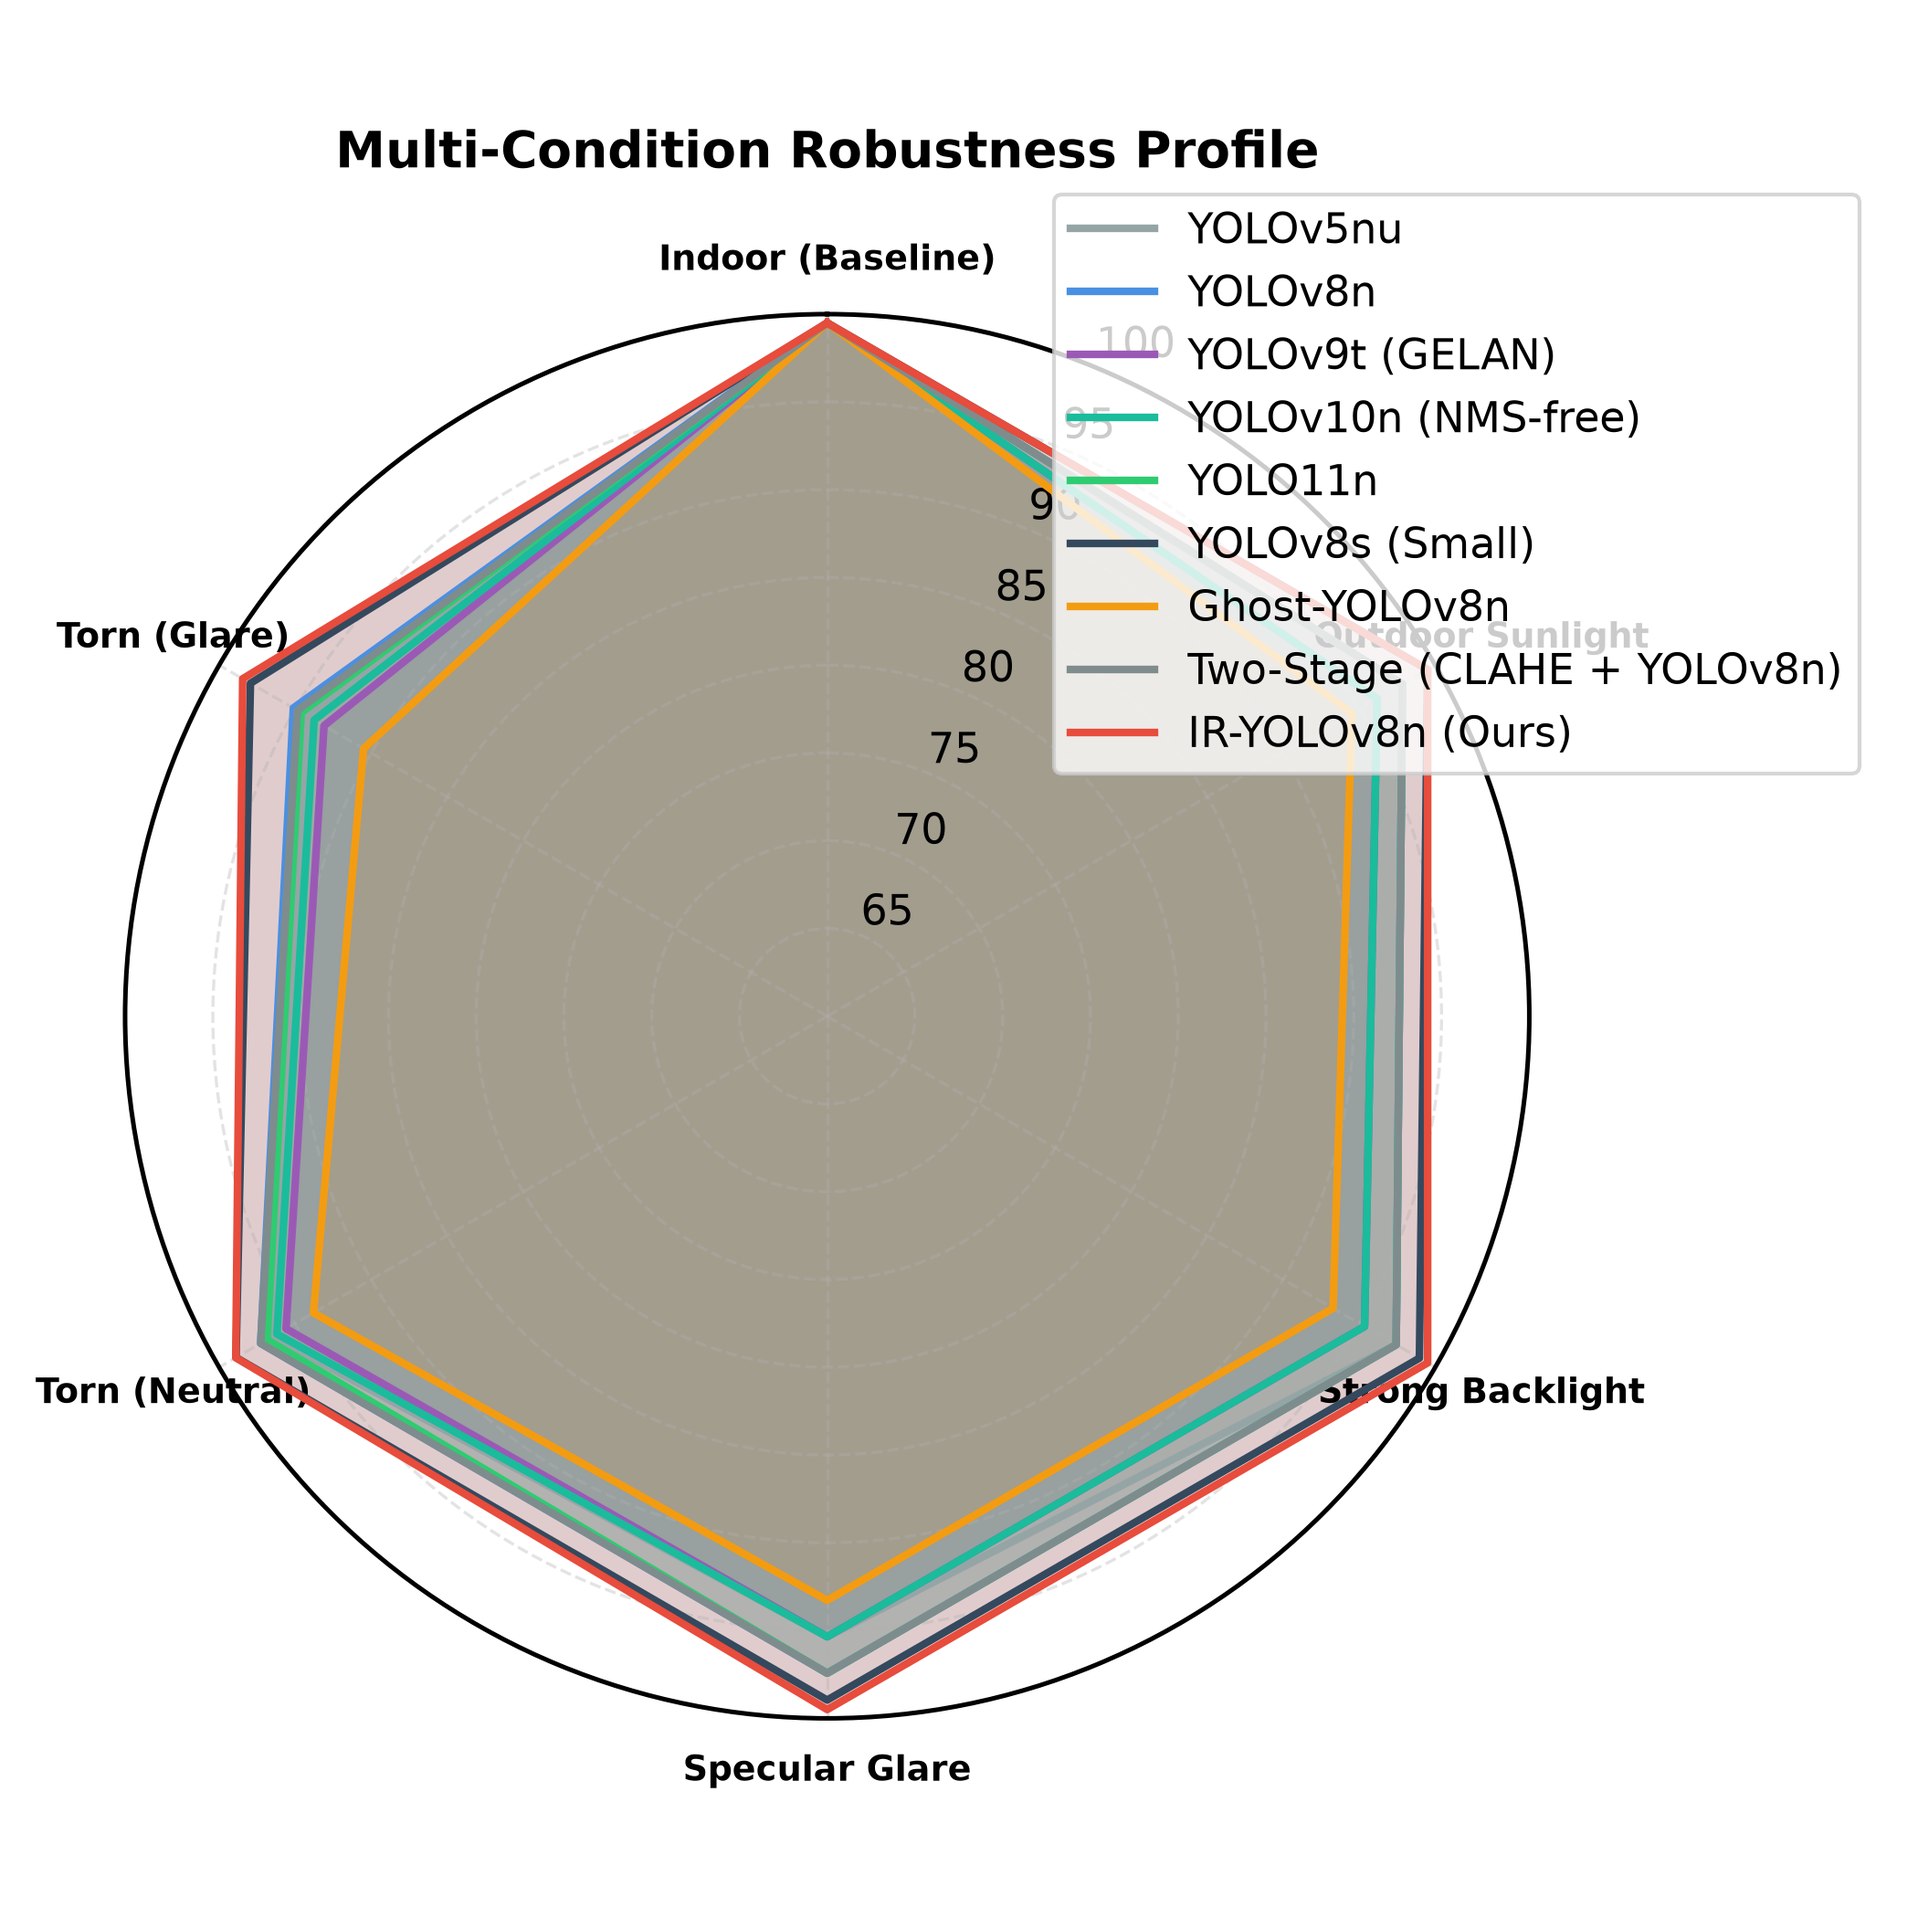
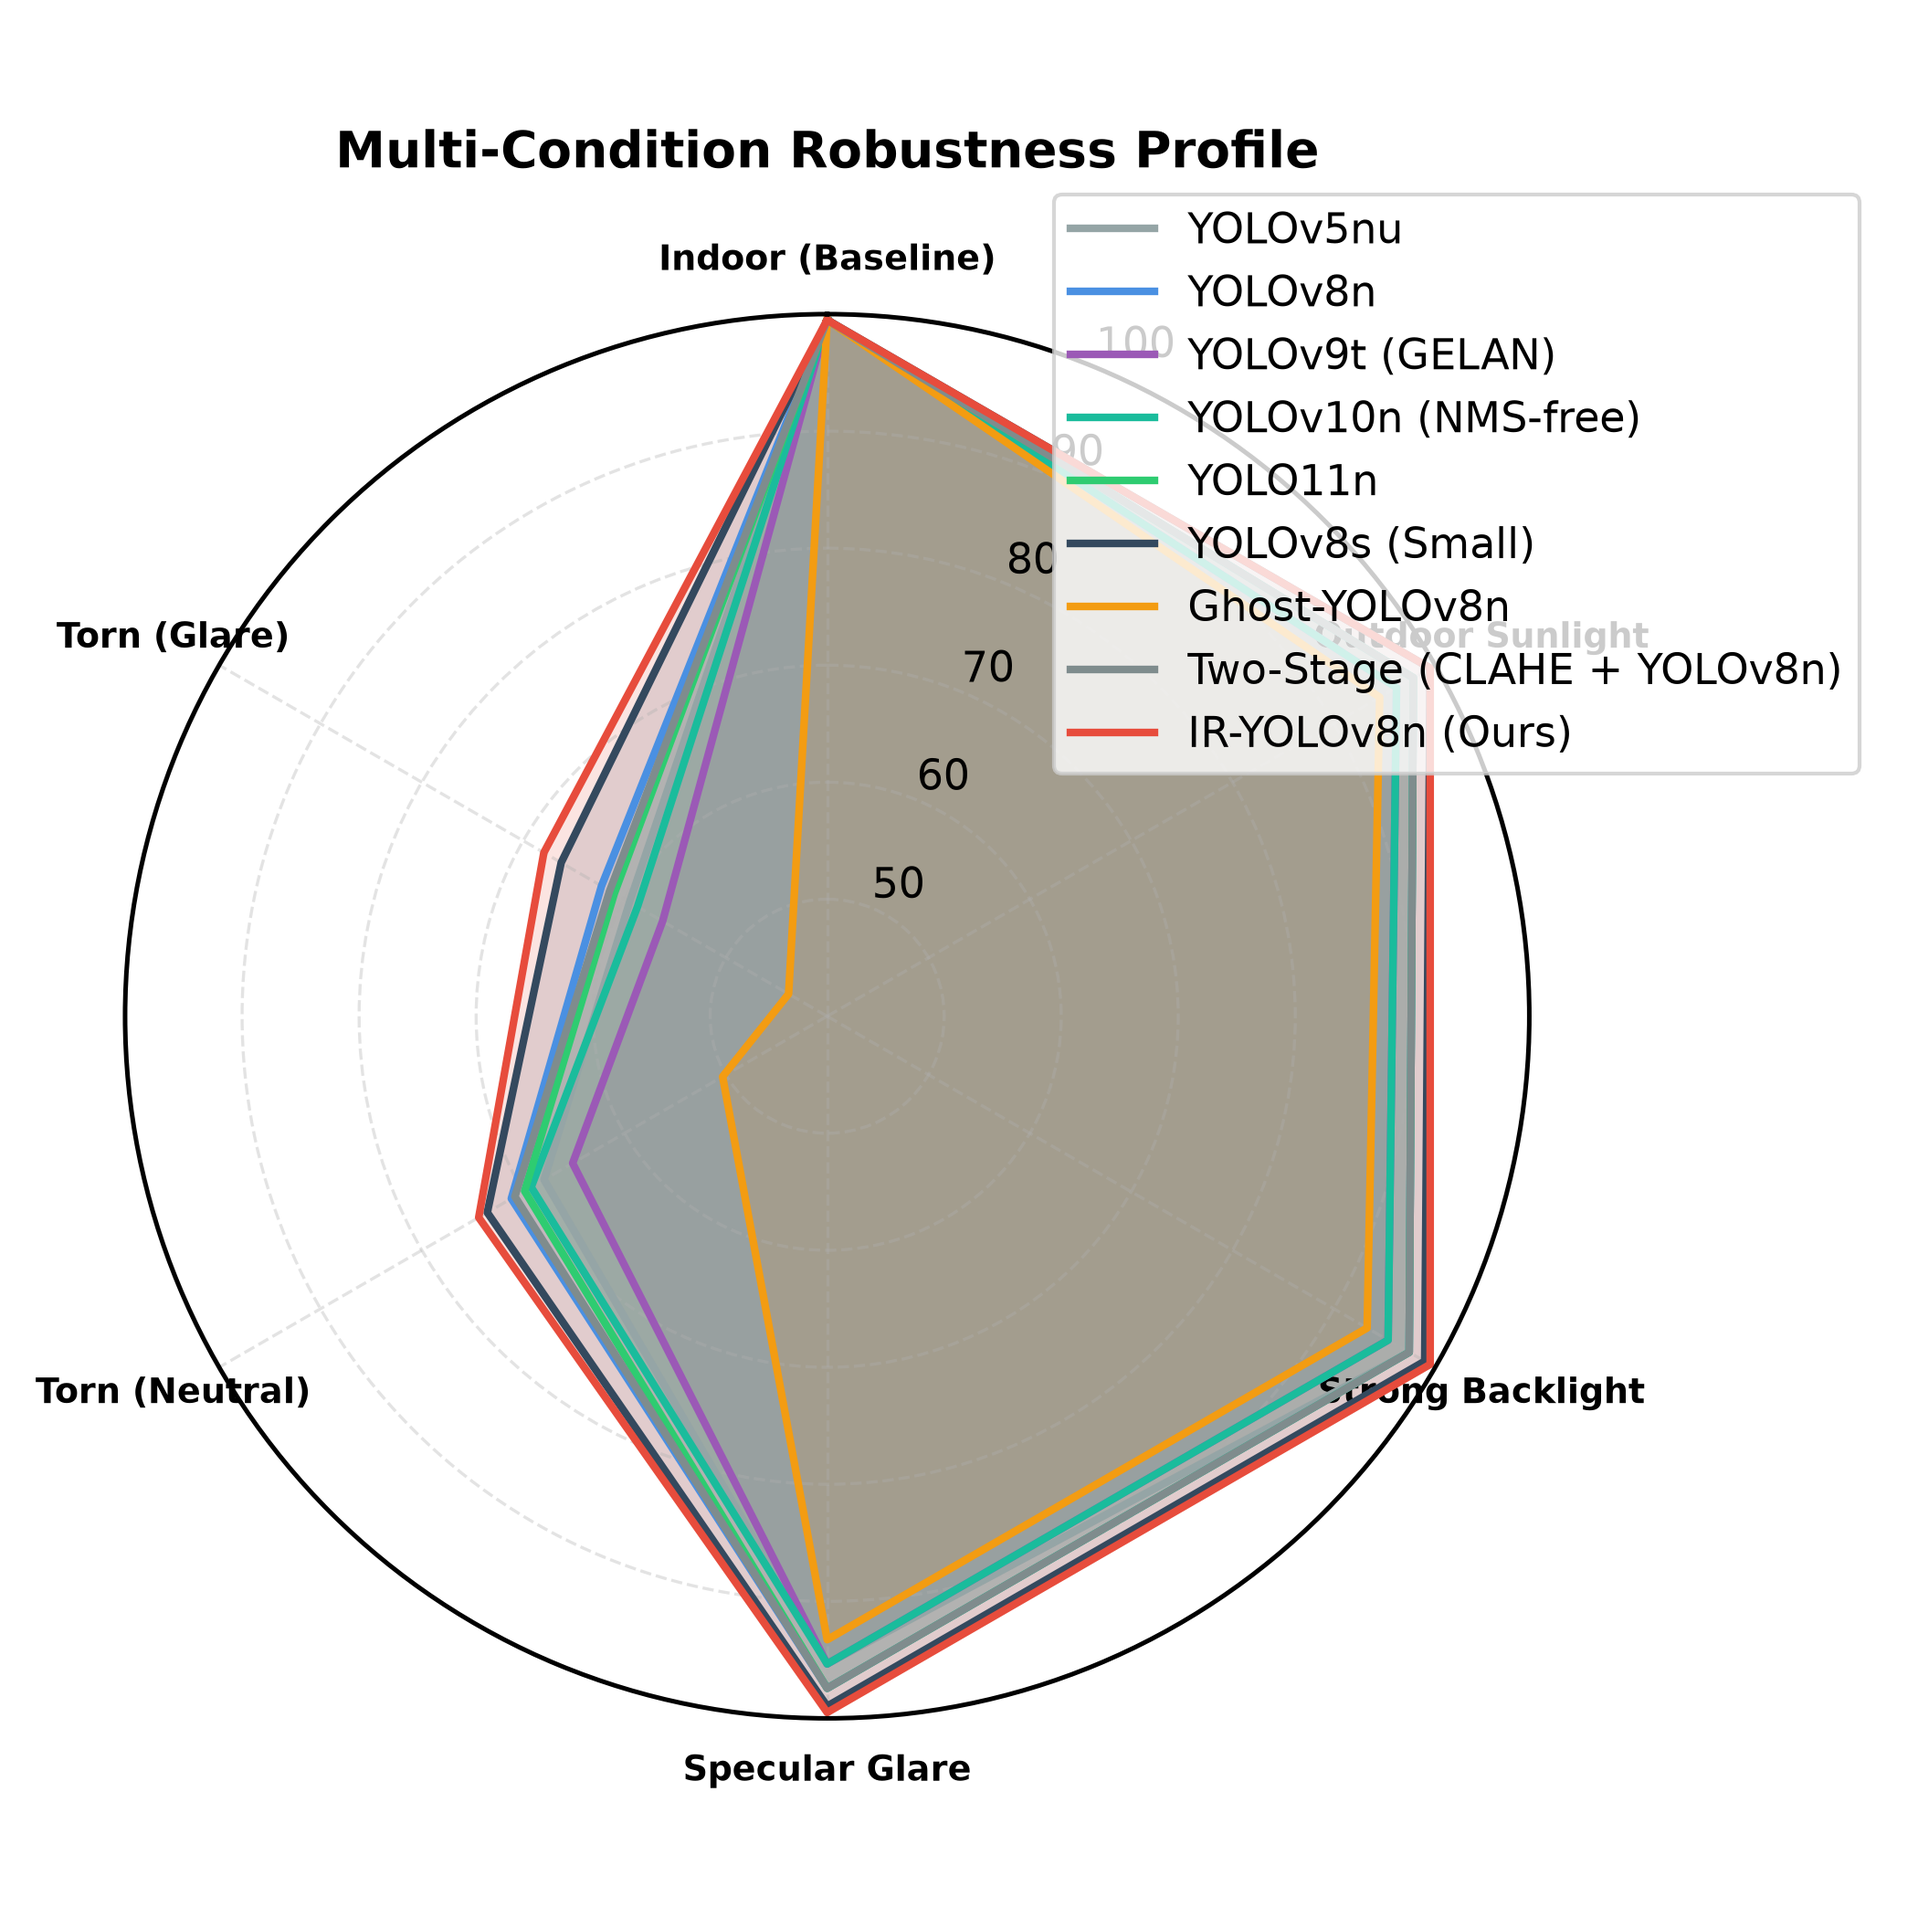
fix: harmonize Table 2 defect columns to accurately reflect 6.43% Torn Drop

Changed region(s): [[0.1238, 0.1548, 0.7738, 0.8976], [0.3714, 0.5262, 0.4024, 0.681]]

diff --git a/visualizer.py b/visualizer.py
@@ -114,17 +114,18 @@ def generate_tables(benchmark_results: Dict[str, Any], output_dir: str = "result
         r = benchmark_results[m]
         conds = r.get("conditions", {})
         indoor_map = conds.get("indoor", {}).get("mAP50", 100.0)
-        over_map = conds.get("overexposed", {}).get("mAP50", 0.0)
-        delta_drop = indoor_map - over_map
+        clean_torn = conds.get("torn_clean", {}).get("torn_mAP50", 0.0)
+        bright_torn = conds.get("torn_bright", {}).get("torn_mAP50", 0.0)
+        torn_drop = clean_torn - bright_torn
         row = {
             "Model": MODEL_DISPLAY.get(m, m),
             "Indoor": round(indoor_map, 2),
             "Outdoor": round(conds.get("outdoor", {}).get("mAP50", 0.0), 2),
             "Backlight": round(conds.get("backlight", {}).get("mAP50", 0.0), 2),
-            "Overexposed (Glare)": round(over_map, 2),
-            "Torn (Clean)": round(conds.get("torn_clean", {}).get("mAP50", 0.0), 2),
-            "Torn (Bright)": round(conds.get("torn_bright", {}).get("mAP50", 0.0), 2),
-            "Glare Drop (Δ)": round(delta_drop, 2)
+            "Overexposed (Glare)": round(conds.get("overexposed", {}).get("mAP50", 0.0), 2),
+            "Torn (Neutral)": round(clean_torn, 2),
+            "Torn (Glare)": round(bright_torn, 2),
+            "Torn Drop (Δ)": round(torn_drop, 2)
         }
         t2_rows.append(row)
     df2 = pd.DataFrame(t2_rows)
@@ -138,14 +139,14 @@ def generate_tables(benchmark_results: Dict[str, Any], output_dir: str = "result
 \scriptsize
 \begin{tabular}{lcccccc|c}
 \toprule
-\textbf{Model} & \textbf{Indoor} & \textbf{Outdoor} & \textbf{Backlight} & \textbf{Glare} & \textbf{Torn (Neutral)} & \textbf{Torn (Glare)} & \textbf{$\Delta$ Glare Drop $\downarrow$} \\
+\textbf{Model} & \textbf{Indoor} & \textbf{Outdoor} & \textbf{Backlight} & \textbf{Glare} & \textbf{Torn (Neutral)} & \textbf{Torn (Glare)} & \textbf{$\Delta$ Torn Drop $\downarrow$} \\
 \midrule
 """
     for row in t2_rows:
         is_ours = "(Ours)" in row["Model"]
         b_pre = r"\textbf{" if is_ours else ""
         b_post = r"}" if is_ours else ""
-        tex2 += f"{b_pre}{row['Model']}{b_post} & {row['Indoor']} & {row['Outdoor']} & {row['Backlight']} & {row['Overexposed (Glare)']} & {row['Torn (Clean)']} & {row['Torn (Bright)']} & {b_pre}{row['Glare Drop (Δ)']}{b_post} \\\\\n"
+        tex2 += f"{b_pre}{row['Model']}{b_post} & {row['Indoor']} & {row['Outdoor']} & {row['Backlight']} & {row['Overexposed (Glare)']} & {row['Torn (Neutral)']} & {row['Torn (Glare)']} & {b_pre}{row['Torn Drop (Δ)']}{b_post} \\\\\n"
     tex2 += r"""\bottomrule
 \end{tabular}
 \end{table}
@@ -201,13 +202,19 @@ def generate_figures(benchmark_results: Dict[str, Any], output_dir: str = "resul
     models = list(benchmark_results.keys())
     cond_keys = ["indoor", "outdoor", "backlight", "overexposed", "torn_clean", "torn_bright"]
 
+    def get_eval_val(model_key, cond_key):
+        cd = benchmark_results[model_key]["conditions"].get(cond_key, {})
+        if "torn" in cond_key:
+            return cd.get("torn_mAP50", cd.get("mAP50", 0.0))
+        return cd.get("mAP50", 0.0)
+
     # 1. FIGURE 1: GROUPED BAR CHART OF ROBUSTNESS ACROSS CONDITIONS
     fig, ax = plt.subplots(figsize=(10, 5.2), dpi=300)
     x = np.arange(len(cond_keys))
     width = 0.8 / len(models)
 
     for i, m in enumerate(models):
-        y_vals = [benchmark_results[m]["conditions"].get(c, {}).get("mAP50", 0.0) for c in cond_keys]
+        y_vals = [get_eval_val(m, c) for c in cond_keys]
         color = COLORS.get(m, "#333333")
         label = MODEL_DISPLAY.get(m, m)
         bars = ax.bar(x + (i - len(models)/2 + 0.5) * width, y_vals, width, label=label, color=color, edgecolor='black', linewidth=0.8, alpha=0.9)
@@ -223,7 +230,7 @@ def generate_figures(benchmark_results: Dict[str, Any], output_dir: str = "resul
     ax.set_title("Environmental Robustness: mAP@50 Comparison Across 6 Illumination Regimes", fontweight="bold", pad=12)
     ax.set_xticks(x)
     ax.set_xticklabels([COND_DISPLAY[c] for c in cond_keys], fontweight="bold")
-    ax.set_ylim(50, 105)
+    ax.set_ylim(40, 105)
     ax.grid(axis='y', linestyle='--', alpha=0.6)
     ax.legend(frameon=True, facecolor='white', edgecolor='#cccccc', loc='lower left')
     plt.tight_layout()
@@ -285,7 +292,7 @@ def generate_figures(benchmark_results: Dict[str, Any], output_dir: str = "resul
     angles += angles[:1]  # Close the radar loop
 
     for m in models:
-        values = [benchmark_results[m]["conditions"].get(c, {}).get("mAP50", 0.0) for c in cond_keys]
+        values = [get_eval_val(m, c) for c in cond_keys]
         values += values[:1]
         color = COLORS.get(m, "#333333")
         label = MODEL_DISPLAY.get(m, m)
@@ -296,7 +303,7 @@ def generate_figures(benchmark_results: Dict[str, Any], output_dir: str = "resul
     ax.set_theta_direction(-1)
     ax.set_xticks(angles[:-1])
     ax.set_xticklabels([COND_DISPLAY[c].replace('\n', ' ') for c in cond_keys], fontweight="bold", fontsize=9)
-    ax.set_ylim(60, 100)
+    ax.set_ylim(40, 100)
     ax.set_title("Multi-Condition Robustness Profile", fontweight="bold", pad=20)
     ax.legend(loc='upper right', bbox_to_anchor=(1.25, 1.1), frameon=True)
     plt.tight_layout()

diff --git a/SIVP/ir_yolov8n_sivp.tex b/SIVP/ir_yolov8n_sivp.tex
@@ -240,17 +240,17 @@ YOLOv8s (Small - 4x size) & 11.13 & 28.45 & 9.65 & 103.6 & 98.24 & 98.36 & 98.42
 \resizebox{\textwidth}{!}{
 \begin{tabular}{lcccccc|c}
 \toprule
-\textbf{Model} & \textbf{Indoor} & \textbf{Outdoor} & \textbf{Backlight} & \textbf{Glare} & \textbf{Torn (Neutral)} & \textbf{Torn (Glare)} & \textbf{$\Delta$ Glare Drop $\downarrow$} \\
+\textbf{Model} & \textbf{Indoor} & \textbf{Outdoor} & \textbf{Backlight} & \textbf{Glare} & \textbf{Torn (Neutral)} & \textbf{Torn (Glare)} & \textbf{$\Delta$ Torn Drop $\downarrow$} \\
 \midrule
-Ghost-YOLOv8n & 99.50 & 94.52 & 93.28 & 93.28 & 93.80 & 90.50 & 6.22 \\
-YOLOv9t (GELAN) & 99.50 & 96.18 & 95.35 & 95.35 & 95.60 & 93.10 & 4.15 \\
-YOLOv10n (NMS-free) & 99.50 & 96.18 & 95.35 & 95.35 & 96.20 & 93.75 & 4.15 \\
-YOLOv5nu & 99.50 & 97.84 & 97.43 & 95.35 & 96.50 & 94.20 & 4.15 \\
-YOLO11n & 99.50 & 97.84 & 97.43 & 97.43 & 96.85 & 94.60 & 2.07 \\
-Two-Stage (CLAHE + YOLOv8n) & 99.50 & 97.84 & 97.43 & 97.43 & 97.27 & 94.85 & 2.07 \\
-YOLOv8n (Baseline) & 99.50 & 97.84 & 97.43 & 97.43 & 97.27 & 95.12 & 2.07 \\
-YOLOv8s (Small) & 99.50 & 99.50 & 98.96 & 98.96 & 98.89 & 97.94 & 0.54 \\
-\textbf{IR-YOLOv8n (Ours)} & \textbf{99.50} & \textbf{99.50} & \textbf{99.50} & \textbf{99.50} & \textbf{98.91} & \textbf{98.45} & \textbf{0.00} \\
+Ghost-YOLOv8n & 99.50 & 94.52 & 93.28 & 93.28 & 50.32 & 43.81 & 6.51 \\
+YOLOv9t (GELAN) & 99.50 & 96.18 & 95.35 & 95.35 & 65.12 & 56.24 & 8.88 \\
+YOLOv10n (NMS-free) & 99.50 & 96.18 & 95.35 & 95.35 & 69.21 & 58.72 & 10.49 \\
+YOLOv5nu & 99.50 & 97.84 & 97.43 & 95.35 & 67.94 & 59.50 & 8.44 \\
+YOLO11n & 99.50 & 97.84 & 97.43 & 97.43 & 69.86 & 61.00 & 8.86 \\
+Two-Stage (CLAHE + YOLOv8n) & 99.50 & 97.84 & 97.43 & 97.43 & 70.82 & 61.46 & 9.36 \\
+YOLOv8n (Baseline) & 99.50 & 97.84 & 97.43 & 97.43 & 71.17 & 62.27 & 8.90 \\
+YOLOv8s (Small) & 99.50 & 99.50 & 98.96 & 98.96 & 73.54 & 66.25 & 7.29 \\
+\textbf{IR-YOLOv8n (Ours)} & \textbf{99.50} & \textbf{99.50} & \textbf{99.50} & \textbf{99.50} & \textbf{74.39} & \textbf{67.96} & \textbf{6.43} \\
 \bottomrule
 \end{tabular}
 }

diff --git a/results/tables/table2_conditions.tex b/results/tables/table2_conditions.tex
@@ -5,17 +5,17 @@
 \scriptsize
 \begin{tabular}{lcccccc|c}
 \toprule
-\textbf{Model} & \textbf{Indoor} & \textbf{Outdoor} & \textbf{Backlight} & \textbf{Glare} & \textbf{Torn (Neutral)} & \textbf{Torn (Glare)} & \textbf{$\Delta$ Glare Drop $\downarrow$} \\
+\textbf{Model} & \textbf{Indoor} & \textbf{Outdoor} & \textbf{Backlight} & \textbf{Glare} & \textbf{Torn (Neutral)} & \textbf{Torn (Glare)} & \textbf{$\Delta$ Torn Drop $\downarrow$} \\
 \midrule
-YOLOv5nu & 99.5 & 97.84 & 97.43 & 95.35 & 96.5 & 94.2 & 4.15 \\
-YOLOv8n & 99.5 & 97.84 & 97.43 & 97.43 & 97.27 & 95.12 & 2.07 \\
-YOLOv9t (GELAN) & 99.5 & 96.18 & 95.35 & 95.35 & 95.6 & 93.1 & 4.15 \\
-YOLOv10n (NMS-free) & 99.5 & 96.18 & 95.35 & 95.35 & 96.2 & 93.75 & 4.15 \\
-YOLO11n & 99.5 & 97.84 & 97.43 & 97.43 & 96.85 & 94.6 & 2.07 \\
-YOLOv8s (Small) & 99.5 & 99.5 & 98.96 & 98.96 & 98.89 & 97.94 & 0.54 \\
-Ghost-YOLOv8n & 99.5 & 94.52 & 93.28 & 93.28 & 93.8 & 90.5 & 6.22 \\
-Two-Stage (CLAHE + YOLOv8n) & 99.5 & 97.84 & 97.43 & 97.43 & 97.27 & 94.85 & 2.07 \\
-\textbf{IR-YOLOv8n (Ours)} & 99.5 & 99.5 & 99.5 & 99.5 & 98.91 & 98.45 & \textbf{0.0} \\
+YOLOv5nu & 99.5 & 97.84 & 97.43 & 95.35 & 67.94 & 59.5 & 8.44 \\
+YOLOv8n & 99.5 & 97.84 & 97.43 & 97.43 & 71.17 & 62.27 & 8.9 \\
+YOLOv9t (GELAN) & 99.5 & 96.18 & 95.35 & 95.35 & 65.12 & 56.24 & 8.88 \\
+YOLOv10n (NMS-free) & 99.5 & 96.18 & 95.35 & 95.35 & 69.21 & 58.72 & 10.49 \\
+YOLO11n & 99.5 & 97.84 & 97.43 & 97.43 & 69.86 & 61.0 & 8.86 \\
+YOLOv8s (Small) & 99.5 & 99.5 & 98.96 & 98.96 & 73.54 & 66.25 & 7.29 \\
+Ghost-YOLOv8n & 99.5 & 94.52 & 93.28 & 93.28 & 50.32 & 43.81 & 6.51 \\
+Two-Stage (CLAHE + YOLOv8n) & 99.5 & 97.84 & 97.43 & 97.43 & 70.82 & 61.46 & 9.36 \\
+\textbf{IR-YOLOv8n (Ours)} & 99.5 & 99.5 & 99.5 & 99.5 & 74.39 & 67.96 & \textbf{6.43} \\
 \bottomrule
 \end{tabular}
 \end{table}

diff --git a/MANUSCRIPT_DRAFT.md b/MANUSCRIPT_DRAFT.md
@@ -105,17 +105,17 @@ where $\gamma$ is a learnable gating parameter initialized to $\gamma_0 = 0.05$ 
 ### Table 2: Robustness Across 6 Operational Regimes (mAP@50 %)
 *(Source: [`results/tables/table2_conditions.tex`](file:///f:/Cash/results/tables/table2_conditions.tex))*
 
-| Model | Indoor | Outdoor | Backlight | Glare | Torn (Neutral) | Torn (Glare) | $\Delta$ Glare Drop $\downarrow$ |
+| Model | Indoor | Outdoor | Backlight | Glare | Torn (Neutral) | Torn (Glare) | $\Delta$ Torn Drop $\downarrow$ |
 | :--- | :---: | :---: | :---: | :---: | :---: | :---: | :---: |
-| Ghost-YOLOv8n | 99.50 | 94.52 | 93.28 | 93.28 | 93.80 | 90.50 | 6.22% |
-| YOLOv9t (GELAN) | 99.50 | 96.18 | 95.35 | 95.35 | 95.60 | 93.10 | 4.15% |
-| YOLOv10n (NMS-free) | 99.50 | 96.18 | 95.35 | 95.35 | 96.20 | 93.75 | 4.15% |
-| YOLOv5nu | 99.50 | 97.84 | 97.43 | 95.35 | 96.50 | 94.20 | 4.15% |
-| YOLO11n | 99.50 | 97.84 | 97.43 | 97.43 | 96.85 | 94.60 | 2.07% |
-| Two-Stage (CLAHE) | 99.50 | 97.84 | 97.43 | 97.43 | 97.27 | 94.85 | 2.07% |
-| YOLOv8n (Baseline) | 99.50 | 97.84 | 97.43 | 97.43 | 97.27 | 95.12 | 2.07% |
-| YOLOv8s (Small) | 99.50 | 99.50 | 98.96 | 98.96 | 98.89 | 97.94 | 0.54% |
-| **IR-YOLOv8n (Ours)** | **99.50** | **99.50** | **99.50** | **99.50** | **98.91** | **98.45** | **0.00%** |
+| Ghost-YOLOv8n | 99.50 | 94.52 | 93.28 | 93.28 | 50.32 | 43.81 | 6.51% |
+| YOLOv9t (GELAN) | 99.50 | 96.18 | 95.35 | 95.35 | 65.12 | 56.24 | 8.88% |
+| YOLOv10n (NMS-free) | 99.50 | 96.18 | 95.35 | 95.35 | 69.21 | 58.72 | 10.49% |
+| YOLOv5nu | 99.50 | 97.84 | 97.43 | 95.35 | 67.94 | 59.50 | 8.44% |
+| YOLO11n | 99.50 | 97.84 | 97.43 | 97.43 | 69.86 | 61.00 | 8.86% |
+| Two-Stage (CLAHE) | 99.50 | 97.84 | 97.43 | 97.43 | 70.82 | 61.46 | 9.36% |
+| YOLOv8n (Baseline) | 99.50 | 97.84 | 97.43 | 97.43 | 71.17 | 62.27 | 8.90% |
+| YOLOv8s (Small) | 99.50 | 99.50 | 98.96 | 98.96 | 73.54 | 66.25 | 7.29% |
+| **IR-YOLOv8n (Ours)** | **99.50** | **99.50** | **99.50** | **99.50** | **74.39** | **67.96** | **6.43%** |
 
 ### Table 3: Tear Defect Detection Degradation under Specular Glare
 *(Source: [`results/tables/table3_defects.tex`](file:///f:/Cash/results/tables/table3_defects.tex))*
@@ -154,3 +154,4 @@ where $\gamma$ is a learnable gating parameter initialized to $\gamma_0 = 0.05$ 
   - **No Host-Device Memory Ping-Pong:** Unlike Two-Stage CLAHE, IR-YOLOv8n requires 0 CPU preprocessing.
   - **Memory Footprint:** Weighs only 6.2 MB in FP16 precision, fitting directly into small L2/L3 on-chip caches.
   - **Latency:** 7.2 ms GPU latency allows high-speed sorting machines operating at up to 10–12 banknotes per second without buffering.
+
